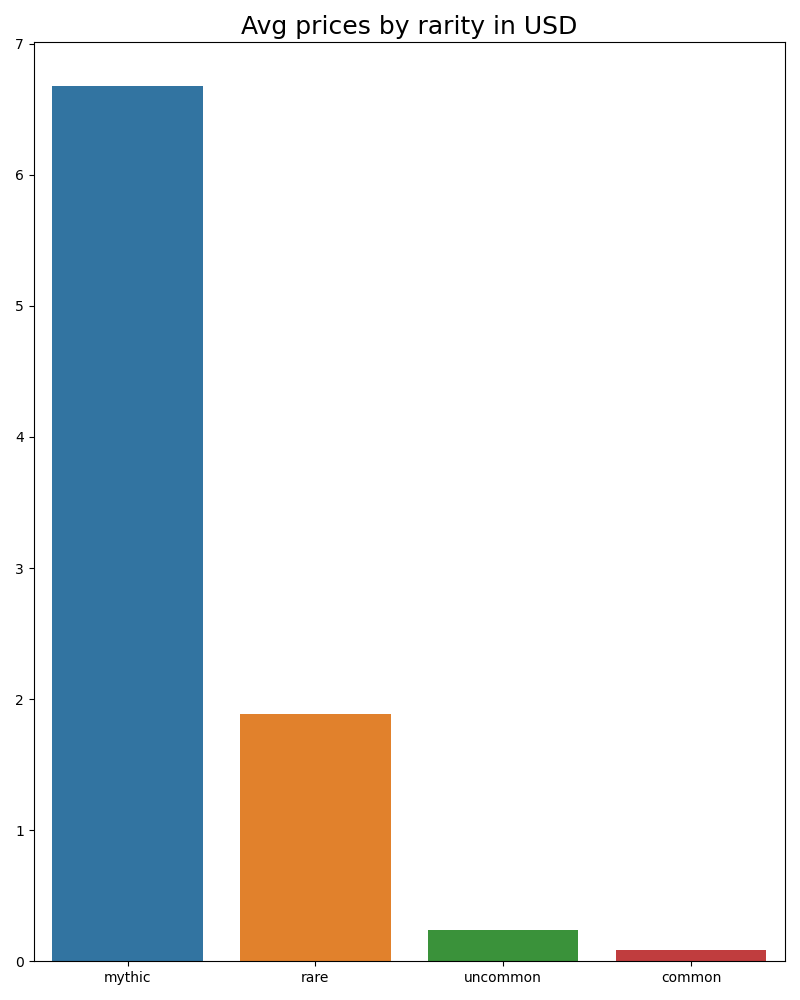
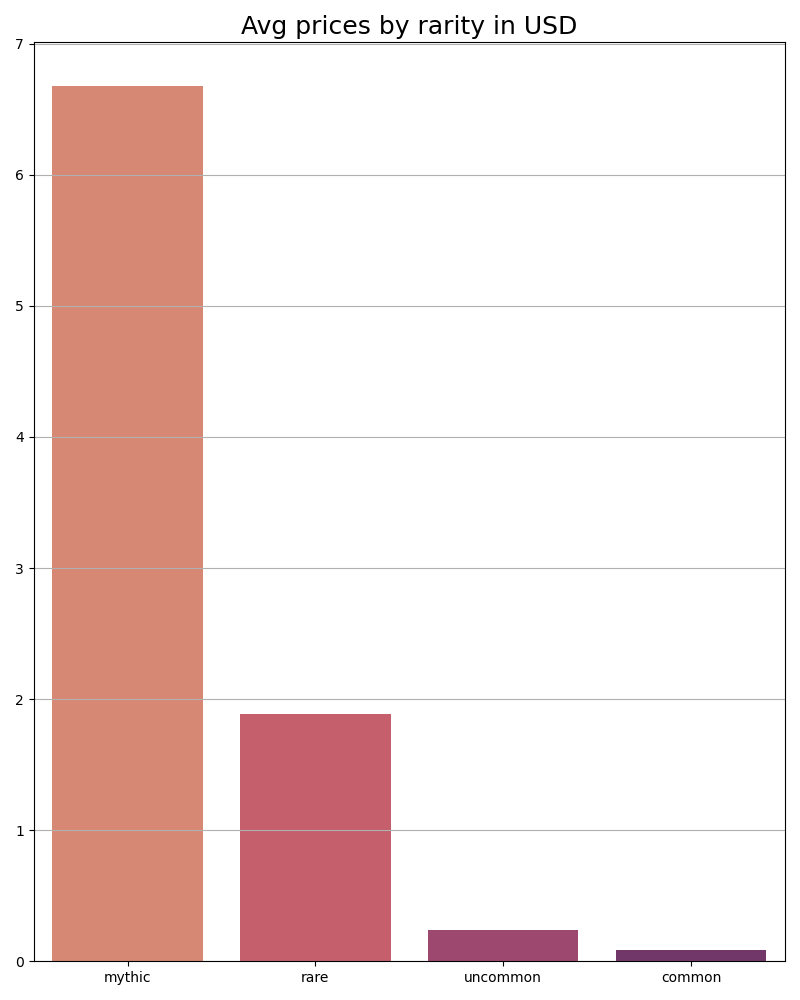
Update visualizations

Changed region(s): [[0.0625, 0.062, 0.5, 0.961], [0.5312, 0.93, 0.9688, 0.961]]

diff --git a/src/nodes/data_viz.py b/src/nodes/data_viz.py
@@ -59,7 +59,7 @@ group by d.id;
     decks_colors = pd.read_sql_query(query, client.engine)
     df = decks_colors.groupby(by='uno').agg(white=('white', 'sum'),
                           blue=('blue', 'sum'),
-                        black=('black', 'sum'),
+                          black=('black', 'sum'),
                           red=('red', 'sum'),
                           green=('green', 'sum'))
     fig = plt.figure(figsize=(6,6))
@@ -74,7 +74,6 @@ group by d.id;
 
     plt.polar(angles, values, marker='.')
     plt.fill(angles, values, alpha=0.3)
-
     plt.xticks(angles[:-1], categories)
 
     ax.set_rlabel_position(0)
@@ -105,6 +104,7 @@ order by 3 desc'''
     black = []
     red = []
     green = []
+    multi = []
     for index, row in df.iterrows():
         if row['color'] == 'W':
             white.append(row['name'])
@@ -116,29 +116,64 @@ order by 3 desc'''
             red.append(row['name'])
         elif row['color'] == 'G':
             green.append(row['name'])
+        elif len(row['color']) > 1:
+            multi.append(row['name'])
     color_to_words = {}
-    color_to_words['yellow'] = white
-    color_to_words['blue'] = blue
-    color_to_words['violet'] = black
-    color_to_words['red'] = red
-    color_to_words['green'] = green
-
-    wc = WordCloud(collocations=False, background_color='white', width=1000, height=800).generate_from_frequencies(d)
-
-    #plt.figure(figsize=(20, 15))
-    default_color = 'black'
-
-    grouped_color_func = GroupedColorFunc(color_to_words, default_color)
-
+    color_to_words['#bdaa00'] = white
+    color_to_words['#0099d1'] = blue
+    color_to_words['#9a00bd'] = black
+    color_to_words['#ff0000'] = red
+    color_to_words['#119100'] = green
+    color_to_words['#ff69f5'] = multi
+    mask = np.array(Image.open('../viz/cards-fan.jpg'))
+    wc = WordCloud(collocations=False, background_color='white', width=1000, height=800, mask=mask).generate_from_frequencies(d)
+    default_color = '#424142'
+    grouped_color_func = SimpleGroupedColorFunc(color_to_words, default_color)
     wc.recolor(color_func=grouped_color_func)
-
-    plt.figure(figsize=(20, 10), facecolor='k')
+    plt.figure(figsize=(20, 10))
+    plt.imshow(wc, interpolation="bilinear")
     plt.axis("off")
     plt.tight_layout(pad=0)
-    plt.imshow(wc, interpolation="bilinear")
-    
-    plt.savefig('../viz/nonland_name_cloud.png')
+    plt.savefig('../viz/nonland_name_cloud.png', bbox_inches='tight')
 
+
+def plot_nonland_name_bar(client):
+    query = '''select case when c.name like '%//%' then split_part(c.name, '//', 1) else c.name end as name
+,case when length(c.color_identity) > 1 then '#ff69f5' else
+	case when c.color_identity = 'W' then '#bdaa00' else
+		case when c.color_identity = 'U' then '#0099d1' else
+			case when c.color_identity = 'B' then '#9a00bd' else
+				case when c.color_identity = 'R' then '#ff0000' else
+				 case when c.color_identity = 'G' then '#119100' else
+				 	'grey'
+				 end
+				end
+			end
+		end
+	end
+end as color
+,sum(dc.amount) as amount
+from card as c, deck_card as dc
+where c.uuid = dc.card_id
+and c.type not like '%Land%'
+group by c.name, c.color_identity
+order by 3 desc
+limit 20'''
+    df = pd.read_sql_query(query, client.engine)
+    name = df.iloc[:, 0].tolist()
+    colors = df.iloc[:, 1].tolist()
+    number = df.iloc[:, 2].tolist()
+    plt.figure(figsize=(12, 8))
+    ax = sns.barplot(y=name, x=number, palette=colors)
+    # set labels
+    # plt.ylabel("Sets", size=15)
+    # plt.ylabel("Card count", size=15)
+    plt.title("Nonland card name count", size=18)
+    plt.tight_layout()
+    #ax.set_xticklabels(name)
+    #plt.subplots_adjust(bottom=0.2)
+    plt.grid(axis='x')
+    plt.savefig("../viz/nonland_name_count.png", dpi=100)
 
 def plot_types_count(client):
     query = '''select SPLIT_PART(c.type, ' — ', 1), count(1)
@@ -191,18 +226,19 @@ where c.type not like '%Basic Land%'
 group by c.rarity
     '''
     df = pd.read_sql_query(query, client.engine)
-    df = df.sort_values(df.columns[1],ascending=False)
+    df = df.sort_values(df.columns[1], ascending=False)
     rarity = df.iloc[:, 0].tolist()
     values = df.iloc[:, 1].tolist()
-    plt.figure(figsize=(8,10))
+    plt.figure(figsize=(8, 10))
 
     # make barplot
-    sns.barplot(x=rarity, y=values)
+    sns.barplot(x=rarity, y=values, palette='flare')
     # set labels
     # plt.ylabel("Sets", size=15)
     # plt.ylabel("Card count", size=15)
     plt.title("Avg prices by rarity in USD", size=18)
     plt.tight_layout()
+    plt.grid(axis='y')
     plt.savefig("../viz/avg_price_rarity.png", dpi=100)
 
 
@@ -278,10 +314,11 @@ def update(client, params):
     #plot_decks_colors(client)
     #plot_types_count(client)
     #plot_set_count(client)
-    #plot_price_by_rarity(client)
+    plot_price_by_rarity(client)
     #plot_winner_price_in_time(client)
     #plot_max_price_in_time(client)
-    plot_nonland_name_cloud(client)
+    #plot_nonland_name_cloud(client)
+    plot_nonland_name_bar(client)
 
 
 def done(client, params):
